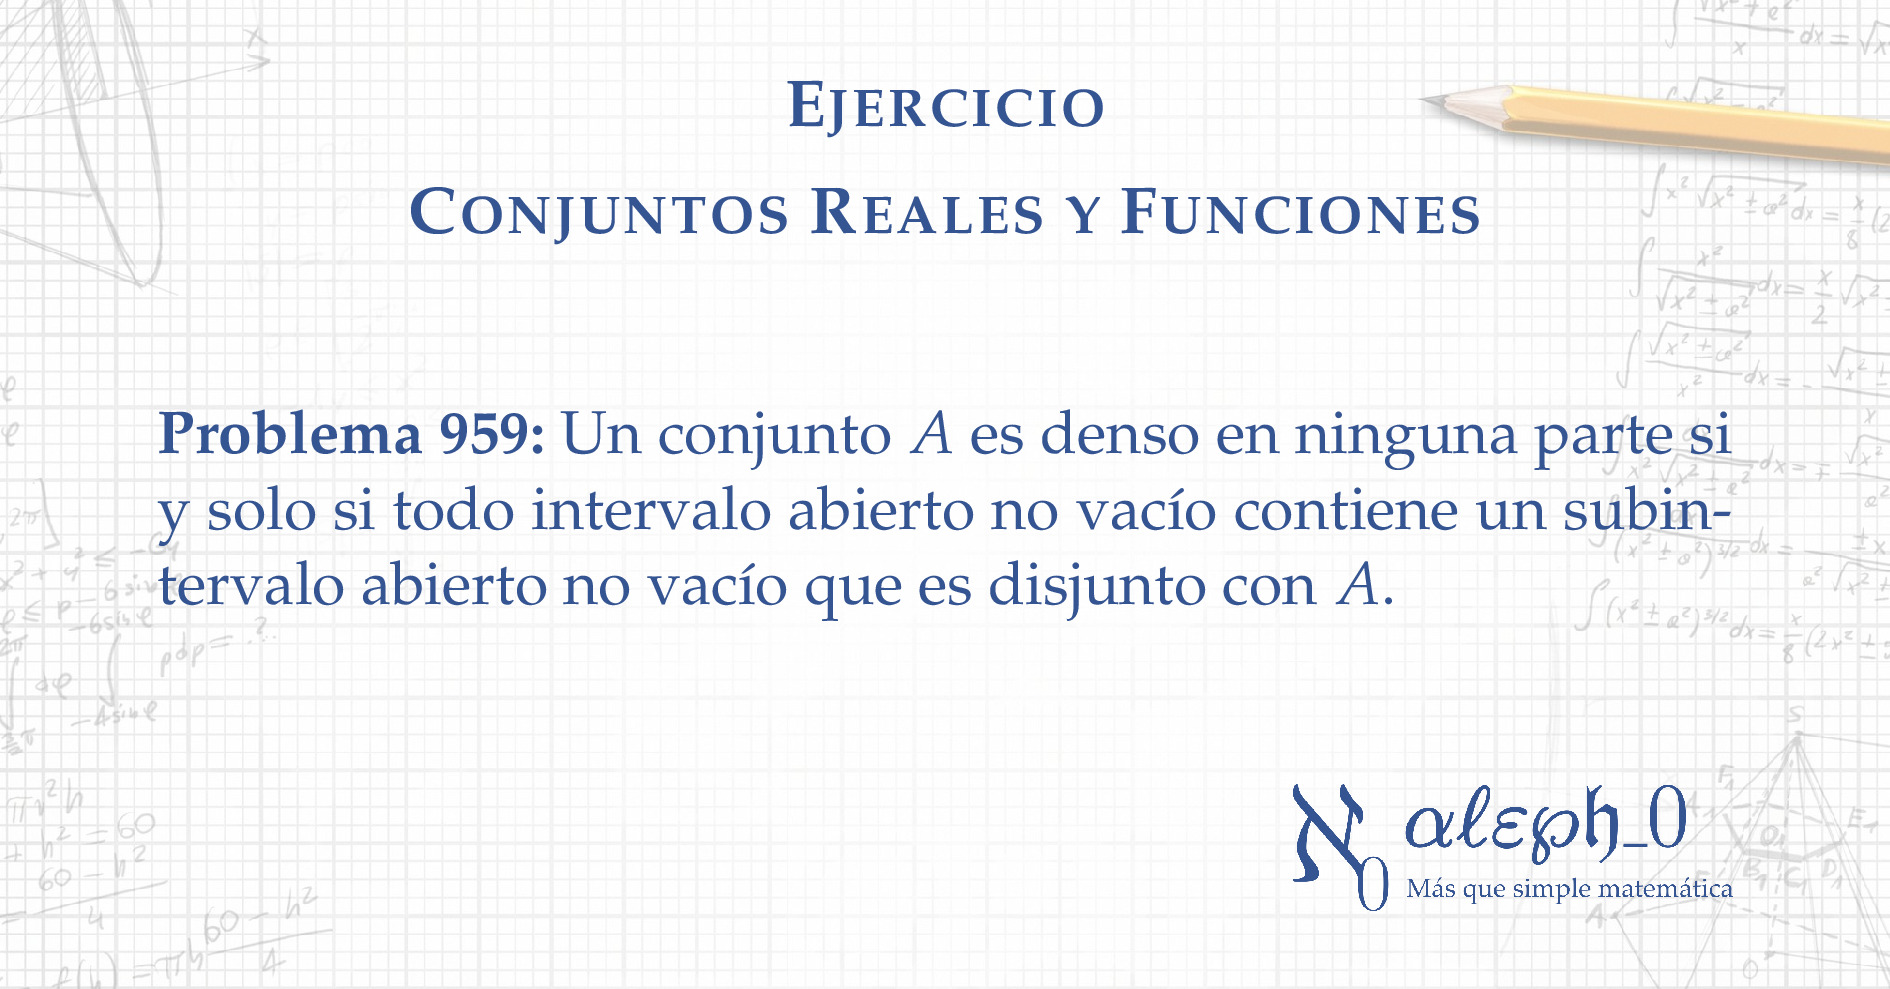
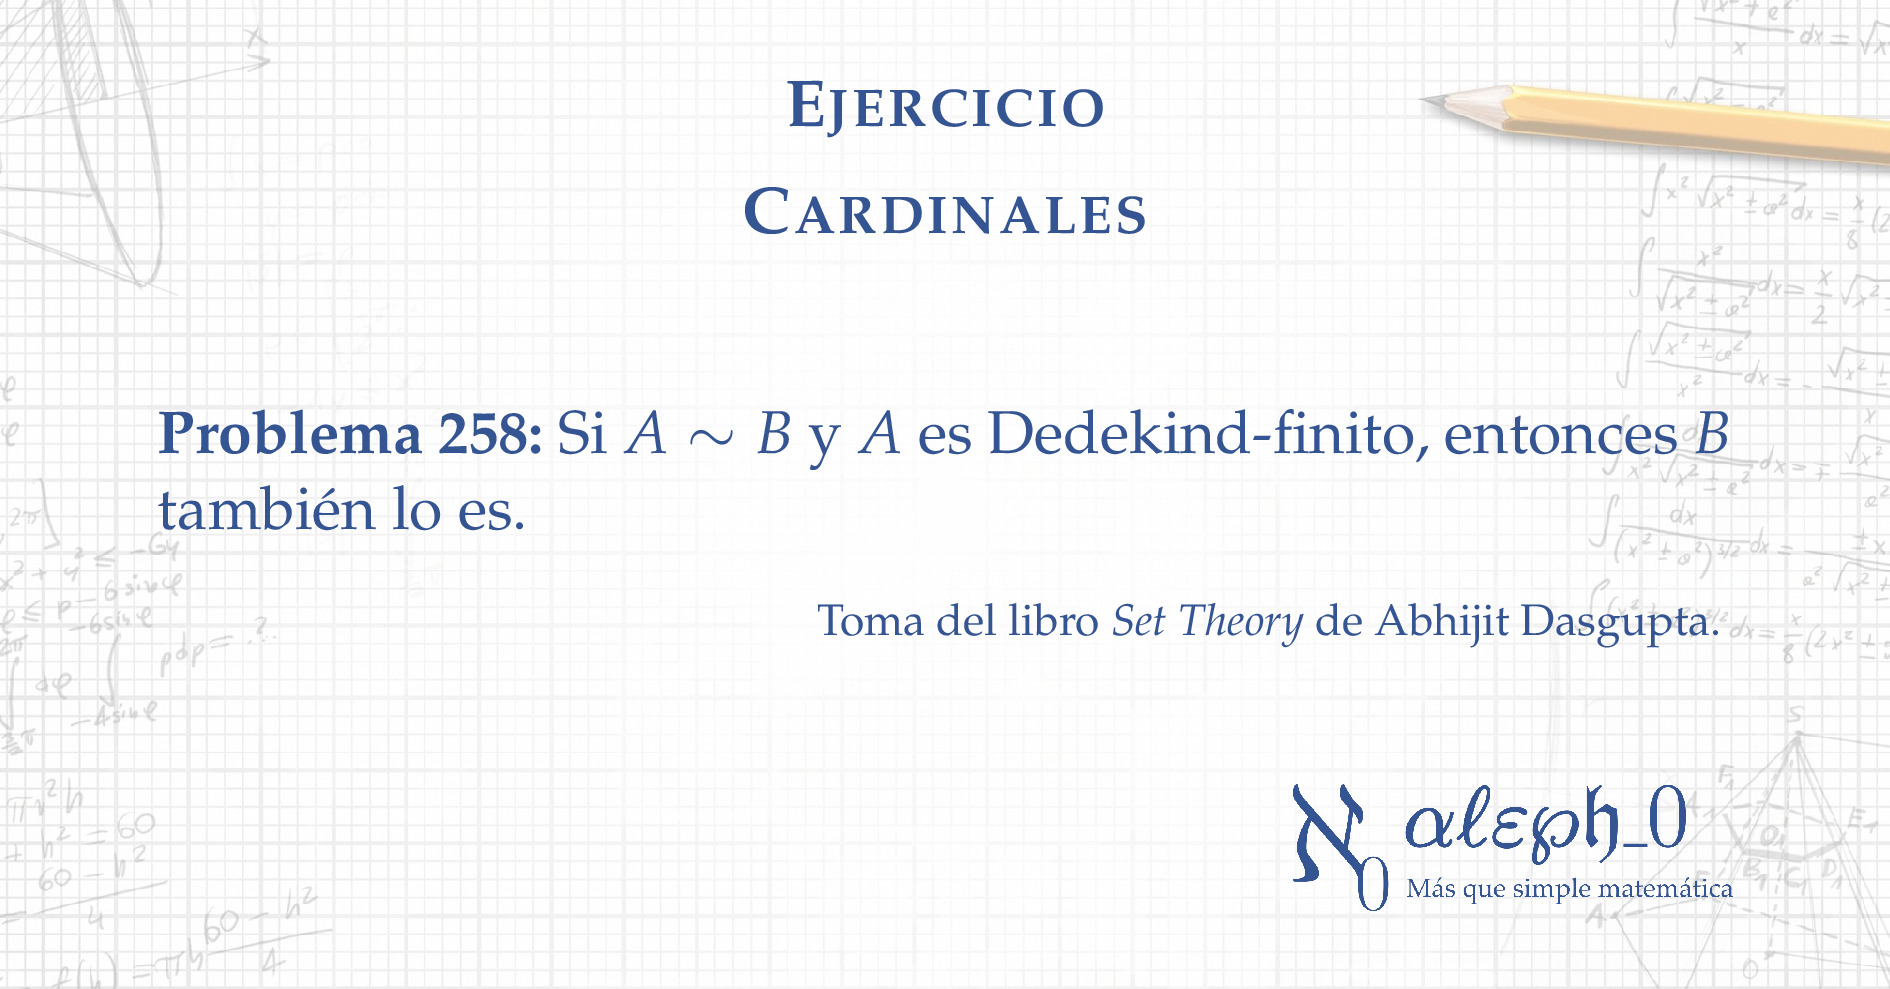
agrega ejercicio 258

Changed region(s): [[0.0624, 0.4247, 0.9365, 0.546], [0.0624, 0.5763, 0.9053, 0.6673], [0.2185, 0.182, 0.7804, 0.2427]]

diff --git a/Cap05/Problema0258.tex b/Cap05/Problema0258.tex
@@ -1,0 +1,59 @@
+\documentclass[a4,10pt]{aleph-notas}
+
+% -- Paquetes adicionales
+\usepackage{enumitem}
+\usepackage{aleph-comandos}
+
+% -- Datos
+\institucion{Proyecto Alephsub0}
+\asignatura{Teoría de conjuntos}
+\tema{Ejercicios 258 del libro de Abhijit Dasgupta}
+\autor{Andrés Merino}
+\fecha{Octubre 2024}
+
+\fuente{montserrat}
+\logouno[4.5cm]{Logos/LogoAlephsub0-02}
+\definecolor{colordef}{cmyk}{0.81,0.62,0.00,0.22}
+
+% -- Comandos adicionales
+\newtheorem*{prob}{Problema}
+    \tcolorboxenvironment{prob}{%
+        color=colordef,recuadrost,colback=colordef!7,drop fuzzy shadow
+    }
+
+
+\begin{document}
+
+\encabezado
+
+\noindent
+El siguiente problema corresponde al Problema 258 del libro Set theory de Abhijit Dasgupta. Primero, presentemos algunas definiciones:
+
+\begin{defi}
+    Dos conjuntos $A$ y $B$ se llaman \textbf{equinumerosos}, denotado como $A \sim B$, si existe una función biyectiva de $A$ en $B$.
+\end{defi}
+
+\begin{defi}
+    Un conjunto $A$ se dice \textbf{Dedekind-infinito} si $A \sim B$ para algún subconjunto propio $B \subseteq A$, es decir, si existe una función $\func{f}{A}{A}$ que es inyectiva pero no sobreyectiva. Un conjunto se denominará \textbf{Dedekind-finito} si no es Dedekind-infinito.
+\end{defi}
+
+\begin{prob}
+    Si $A\sim B$ y $A$ es Dedekind-finito, entonces $B$ también lo es.
+\end{prob}
+
+\begin{proof}
+    Sean \( A \) y \( B \) tales que \( A \sim B \), es decir, existe una función biyectiva \( \varphi: A \to B \). Queremos demostrar que \( A \) es Dedekind-finito si y sólo si \( B \) lo es.
+
+    Supongamos que \( A \) es Dedekind-finito. Nuestro objetivo es demostrar que \( B \) también es Dedekind-finito.
+
+    Supongamos, por contradicción, que \( B \) no es Dedekind-finito. Esto implica que existe una función inyectiva \( \func{g}{B}{B} \) que no es sobreyectiva. 
+
+    Tomemos $\func{\varphi}{A}{B}$ la función biyectiva que existe gracias a que $A\sim b$. Definimos 
+    \[
+        \func{f=\varphi^{-1} \circ g \circ \varphi}{A}{A}. 
+    \]
+    Dado que \( \varphi \) es biyectiva y $g$ es inyectiva, \( f \) es inyectiva. Además, como \( g \) no es sobreyectiva, \( f \) tampoco lo será. Esto implica que \( A \) es Dedekind-infinito, lo cual contradice nuestra suposición inicial.
+
+\end{proof}
+    
+\end{document}

diff --git a/Portada.tex b/Portada.tex
@@ -1,0 +1,20 @@
+\documentclass[11pt]{article}
+
+% Importar la configuración
+% \input{formatoPortadaC}
+\input{formatoPortadaR}
+
+\begin{document}
+
+\titulo{Cardinales}
+
+\problema[5mm]{258}{Si $A\sim B$ y $A$ es Dedekind-finito, entonces $B$ también lo es.}
+
+\vspace{2mm}
+{\scriptsize
+    \hspace{\fill}Toma del libro \textit{Set Theory} de Abhijit Dasgupta.
+}
+
+\logo
+
+\end{document}
